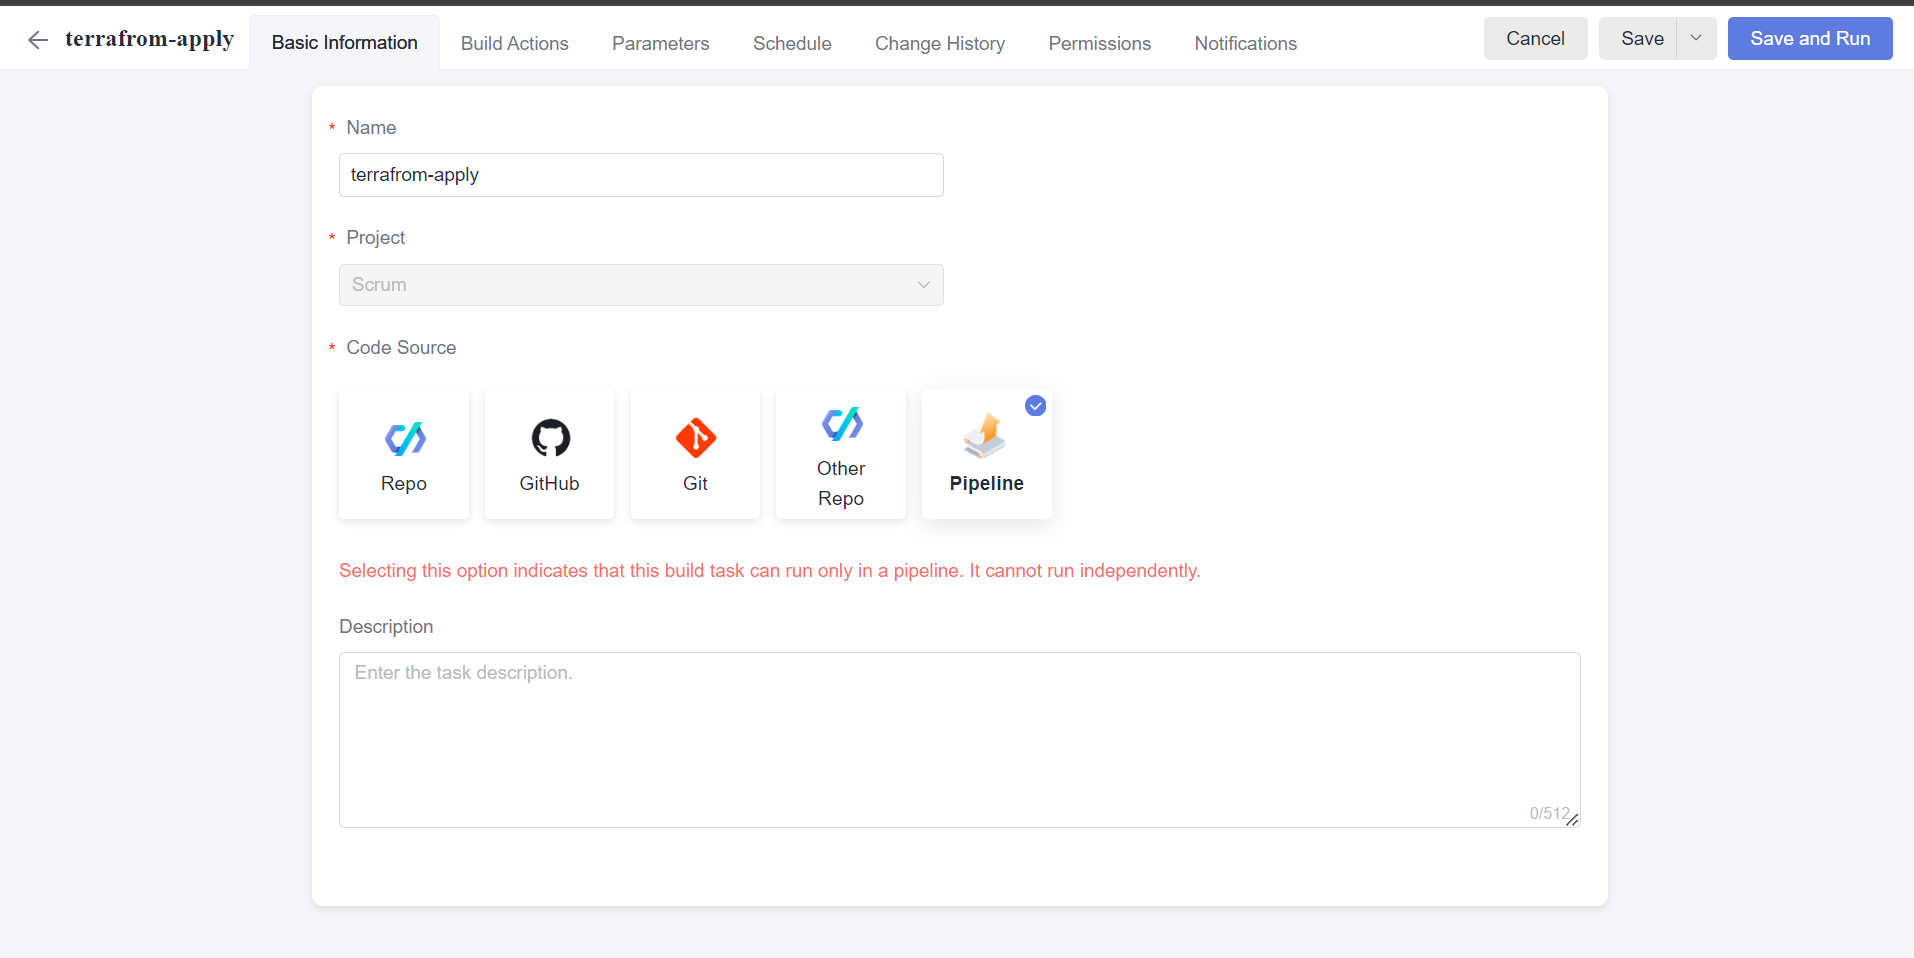
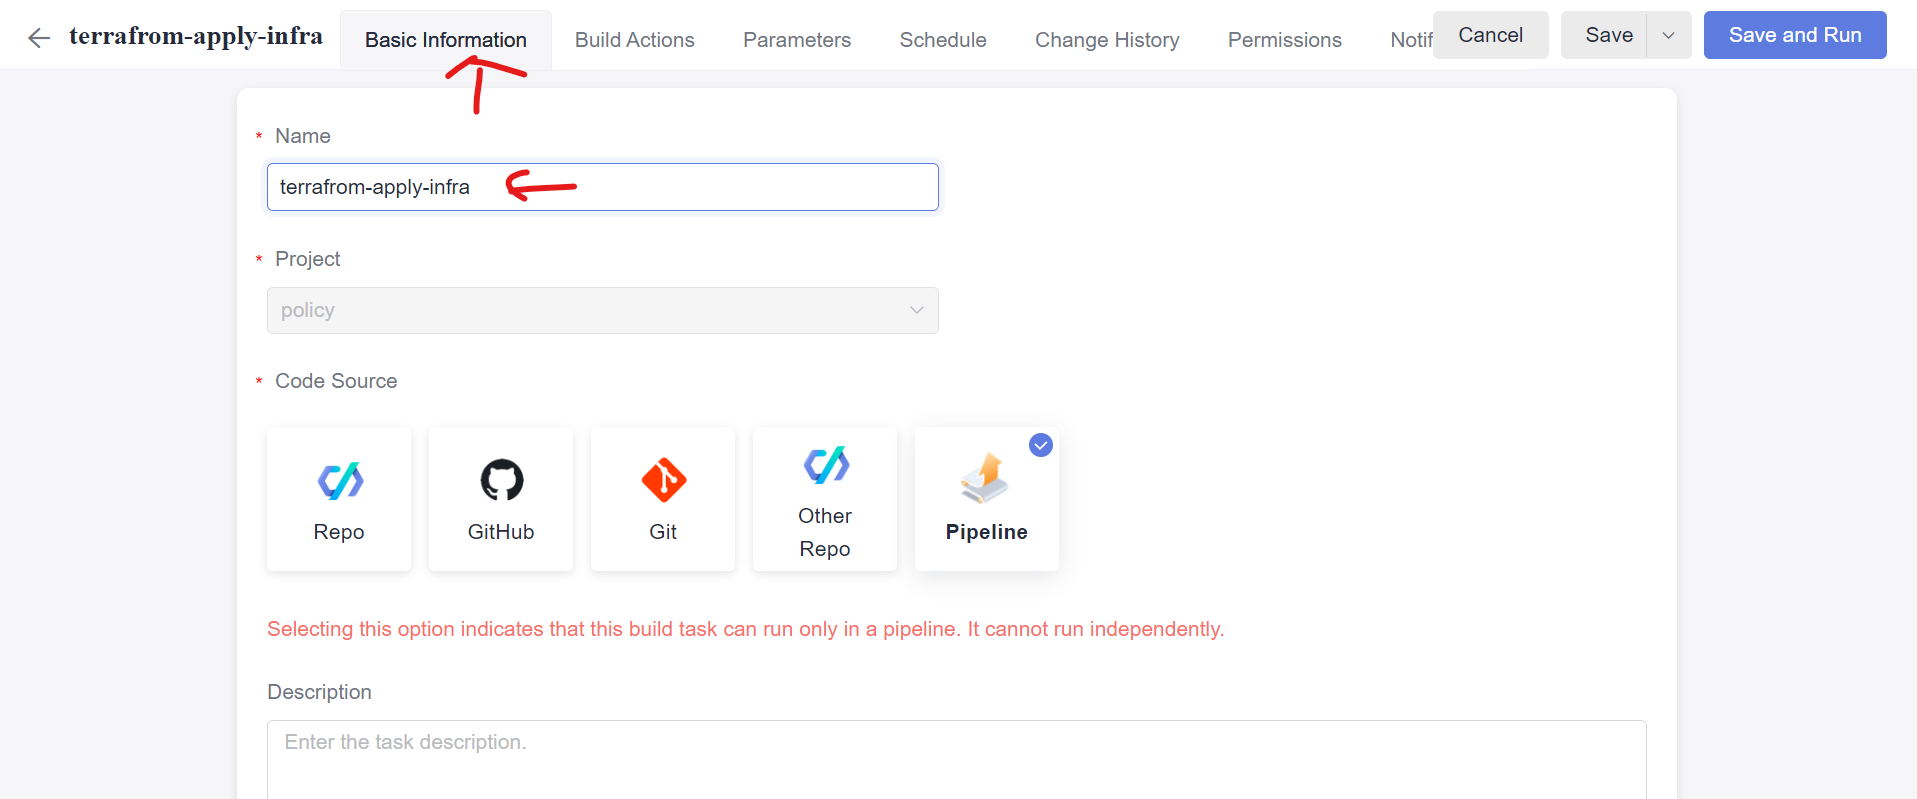
Update

diff --git a/README.md b/README.md
@@ -13,7 +13,7 @@ In this workshop, Huawei Cloud OBS is used as the backend of terraform
 3. On the `Object Storage Service` page, Click `Create Bucket` button on the top right corner of the page
 ![CreateBucket1](./resources/2-Createobsbucket-1.png)
 
-4. On the bucket creation page, only need to provide a uniq bucket name and leave other parameters unchanged
+4. On the bucket creation page, only need to provide a uniq bucket name and leave other parameters unchanged and click `Create Now`
 ![CreateBucket2](./resources/2-Createobsbucket-2.png)
 
 ## Create AK/SK
@@ -40,7 +40,7 @@ In this workshop, Huawei Cloud OBS is used as the backend of terraform
 4. On the Service page, Select `Scrum` template to create a project
 ![CreateProject](./resources/4-Createcodearts-3.png)
 
-5. On the Creation Page, You only need to change the `Name`
+5. On the Creation Page, You only need to change the `Name` and Click `Ok`
 ![CreateProject1](./resources/4-Createcodearts-4.png)
 
 6. On the newly created project page, Select `Code` -> `Repo`
@@ -49,20 +49,20 @@ In this workshop, Huawei Cloud OBS is used as the backend of terraform
 7. On the `Repo` page, Click `New Repository` to create a Repo
 ![CreateRepo](./resources/4-Createcodearts-6.png)
 
-8. Select `Import` as `Repository Type`
+8. Select `Import` as `Repository Type` and Click `Next`
 ![CreateRepo1](./resources/4-Createcodearts-7.png)
 
-9. Select `Import From` as `Git Url` and Use the repository url: ```https://github.com/Huawei-APAC-Professional-Services/policy-as-code-lab.git```
+9. Select `Import From` as `Git Url` and Use the repository url: ```https://github.com/Huawei-APAC-Professional-Services/policy-as-code-lab.git```, other parameters can be left unchanged and Click `Next`
 ![CreateRepo2](./resources/4-Createcodearts-8.png)
 
 10. In the next step. keep the information as it appears and Click `Ok`
 ![CreateRepo3](.//resources/4-Createcodearts-9.png)
 
 ## Update Codes
-1. On the `Code` page, Select `Infrastructure` folder
+1. On the `Code` page, Select `Infrastructure` folder in the newly created repository
 ![UpdateCodes](./resources/5-updatecodes-1.png)
 
-2. Find the `provider.tf` file in the folder and Click `Edit`
+2. Find the `provider.tf` file in the folder and click the file name to open it and find the `Edit` icon on the top right corner of the editor to edit the file.
 ![ChangeProvider](./resources/5-updatecodes-2.png)
 
 ![ChangeProivder](./resources/5-updatecodes-3.png)
@@ -101,11 +101,14 @@ In this workshop, Huawei Cloud OBS is used as the backend of terraform
    * Password: The password provided by Organizer
 ![Endpoints5](./resources/6-pipeline-8.png)
 
+You can find the Repo URL at the Repo page:
+![RepoAddr](./resources/16-repoaddr-1.png)
+
 ## Creating Terraform Validation Job
 1. On the `CodeArts` service page, Select `CICD` -> `Build` -> `Create Task`
 ![CreateTerraformValidation](./resources/7-terraformvalidation-1.png)
 
-2. On the creation page, use `terrafrom-validation` and click `Next` and Select `Shell` template
+2. On the creation page, use `terrafrom-validation` as the name and Select `Pipeline` as the `Code Source`, and click `Next` and Select `Shell` template
 ![CreateTerraformValidation1](./resources/7-terraformvalidation-2.png)
 ![CreateTerraformValidation2](./resources/7-terraformvalidation-3.png)
 
@@ -119,7 +122,7 @@ In this workshop, Huawei Cloud OBS is used as the backend of terraform
    * `Action Name`: ```Terrafrom Validation```
    * `Image Address`: ```swr.ap-southeast-3.myhuaweicloud.com/core/ubuntu:codearts1```
    * `Commands`:
-      ````
+      ```
       export HW_ACCESS_KEY=${HW_ACCESS_KEY}
       export HW_SECRET_KEY=${HW_SECRET_KEY}
       export AWS_ACCESS_KEY_ID=${HW_ACCESS_KEY}
@@ -132,17 +135,18 @@ In this workshop, Huawei Cloud OBS is used as the backend of terraform
 ![CreateTerraformValidation4](./resources/7-terraformvalidation-6.png)
 
 6. Select the `Parameters` tab on the top of the page and Create the following two parameters with empty value and enable the `Runtime Settings`
-   * Name: `HW_ACCESS_KEY`
-   * Name: `HW_SECRET_KEY`
+   * Name: `HW_ACCESS_KEY` Value: `""`
+   * Name: `HW_SECRET_KEY` Value: `""`
 ![CreateTerraformValidation5](./resources/7-terraformvalidation-7.png)
 
 7. Save the task
+![Save1](./resources/16-repoaddr-2.png)
 
 ## Creating Checkov Validation Job
 1. On the `CodeArts` service page, Select `CICD` -> `Build` -> `Create Task`
 ![CreateTerraformValidation](./resources/7-terraformvalidation-1.png)
 
-2. On the creation page, use `checkov-validation` and click `Next` and Select `Shell` template
+2. On the creation page, use `checkov-validation` as `Name` and Select `Pipelin` as `Code Source` and click `Next` and Select `Shell` template
 ![checkov1](./resources/8-checkovvalidation-1.png)
 ![checkov2](./resources/8-checkovvalidation-2.png)
 
@@ -156,7 +160,7 @@ In this workshop, Huawei Cloud OBS is used as the backend of terraform
    * `Action Name`: ```Checkov Validation```
    * `Image Address`: ```swr.ap-southeast-3.myhuaweicloud.com/core/ubuntu:codearts1```
    * `Commands`:
-      ````
+      ```
       checkov -d infrastructure --download-external-modules true --external-checks-git https://github.com/Huawei-APAC-Professional-Services/terraform-policy.git
       checkov -d application --download-external-modules true --external-checks-git https://github.com/Huawei-APAC-Professional-Services/terraform-policy.git
       ```
@@ -211,7 +215,7 @@ In this workshop, Huawei Cloud OBS is used as the backend of terraform
 ![Terraformplaninfra](./resources/9-infraterraformplan-1.png)
 
 2. Select `Basic Information` tab on the top of the page and Change the name to `terrafrom-plan-application`
-![Terraformplaninfra1](./resources/9-infraterraformplan-2.png)
+![Terraformplaninfra1](./resources/9-infraterraformplan-4.png)
 
 3. Select the `Build Actions` tab and the `Terrafrom Validation` job on the left side panel and Change the following the following parameters for the job
    * `Action Name`: ```Terrafrom Plan Application```
@@ -233,13 +237,13 @@ In this workshop, Huawei Cloud OBS is used as the backend of terraform
 ![Terraformplaninfra](./resources/9-infraterraformplan-1.png)
 
 2. Select `Basic Information` tab on the top of the page and Change the name to `terrafrom-apply-application`
-![Terraformapply](./resources/10-infraterraappy-1.png)
+![Terraformapply](./resources/10-infraterraappy-3.png)
 
 3. Select the `Build Actions` tab and the `Terrafrom Validation` job on the left side panel and Change the following the following parameters for the job
    * `Action Name`: ```Terrafrom Apply Application```
    * `Image Address`: ```swr.ap-southeast-3.myhuaweicloud.com/core/ubuntu:codearts1```
    * `Commands`:
-      ````
+      ```
       export HW_ACCESS_KEY=${HW_ACCESS_KEY}
       export HW_SECRET_KEY=${HW_SECRET_KEY}
       export AWS_ACCESS_KEY_ID=${HW_ACCESS_KEY}
@@ -257,7 +261,7 @@ In this workshop, Huawei Cloud OBS is used as the backend of terraform
 2. On the `Pipeline` page, Click `Create Pipeline` button
 ![Pipeline1](./resources/6-pipeline-2.png)
 
-3. Providing the information to create pipeline
+3. Chang the Name to `deployment` and leave other parameters unchanged and Click `Next`
 ![Pipeline2](./resources/6-pipeline-9.png)
 
 4. Select a `Blank Template` for this pipeline
@@ -266,7 +270,8 @@ In this workshop, Huawei Cloud OBS is used as the backend of terraform
 5. After the pipeline is created, Select `Parameter Configurations` on the top of page
 ![Pipeline4](./resources/6-pipeline-11.png)
 
-6. Set the following parameters with the credentials created in [Create AK/SK](#create-aksk)
+6. Set the following parameters with the credentials created in [Create AK/SK](#create-aksk) 
+
 ```HW_ACCESS_KEY``` 
 ```HW_SECRET_KEY```
 
@@ -302,7 +307,7 @@ In this workshop, Huawei Cloud OBS is used as the backend of terraform
 
 ![pipelinevalidation4](./resources/6-pipeline-21.png)
 
-13. Under the `Plan-Infrastructure` stage, add a `terraform plan` job, to configure the job with the following parameters:
+13. Under the `Plan-Infrastructure` stage, add a `Build` job, to configure the job with the following parameters:
    * Name: `infrastructure terraform plan`
    * Select Task: `terraform-plan-infra`
    * Repository: `policy-as-code-lab`
@@ -327,18 +332,18 @@ In this workshop, Huawei Cloud OBS is used as the backend of terraform
 17. On the pipeline configuration page, Click `+Stage` to create a `Deployment-Infra` stage
 ![pipelinevalidation3](./resources/6-pipeline-23.png)
 
-15. Under the `Deployment-Infra` stage, add a `terraform apply` job, to configure the job with the following parameters:
-   * Name: `terraform apply`
+18. Under the `Deployment-Infra` stage, add a `Build` job, to configure the job with the following parameters:
+   * Name: `terraform-apply-infra`
    * Select Task: `terraform-apply-infra`
    * Repository: `policy-as-code-lab`
    * HW_ACCESS_KEY: `${HW_ACCESS_KEY}`
    * HW_SECRET_KEY: `${HW_SECRET_KEY}`
 ![pipelinevalidation3](./resources/6-pipeline-24.png)
 
-16. On the pipeline configuration page, Click `+Stage` to create a `Plan-Application` stage
+19. On the pipeline configuration page, Click `+Stage` to create a `Plan-Application` stage
 ![pipelinevalidation3](./resources/6-pipeline-20.png)
 
-17. Under the `Plan-Application` stage, add a `terraform plan` job, to configure the job with the following parameters:
+20. Under the `Plan-Application` stage, add a `Build` job, to configure the job with the following parameters:
    * Name: `application terraform plan`
    * Select Task: `terraform-plan-application`
    * Repository: `policy-as-code-lab`
@@ -346,22 +351,22 @@ In this workshop, Huawei Cloud OBS is used as the backend of terraform
    * HW_SECRET_KEY: `${HW_SECRET_KEY}`
 ![appplan](./resources/15-appplan-1.png)
 
-18. Click `+` icon on the bottom of `application terraform plan` task to add a serial task
+21. Click `+` icon on the bottom of `application terraform plan` task to add a serial task
 ![AddManualApprovde](./resources/14-manualapprove-4.png)
 
-19. On the job Configuration page, Select `ManualReview` job
+22. On the job Configuration page, Select `ManualReview` job
 ![AddManualApprove1](./resources/14-manualapprove-2.png)
 
-20. Changing the following parameter for `ManualReview` job
+23. Changing the following parameter for `ManualReview` job
    * Name: `ManualReview-Application`
    * Reviewer: Select account admin as reviwer
    * Review Duration: `2 Hours`
 ![AddManualApprove2](./resources/14-manualapprove-5.png)
 
-21. On the pipeline configuration page, Click `+Stage` to create a `Deployment-Application` stage
+24. On the pipeline configuration page, Click `+Stage` to create a `Deployment-Application` stage
 ![pipelinevalidation3](./resources/15-appapply-1.png)
 
-22. Under the `Deployment-Application` stage, add a `terraform apply` job, to configure the job with the following parameters:
+25. Under the `Deployment-Application` stage, add a `Build` job, to configure the job with the following parameters:
    * Name: `terraform apply application`
    * Select Task: `terraform-apply-application`
    * Repository: `policy-as-code-lab`
@@ -369,12 +374,12 @@ In this workshop, Huawei Cloud OBS is used as the backend of terraform
    * HW_SECRET_KEY: `${HW_SECRET_KEY}`
 ![pipelinevalidation3](./resources/15-appapply-2.png)
 
-23. On the pipeline page, Click `Save and Execute` to run the pipeline
+26. On the pipeline page, Click `Save and Execute` to run the pipeline
 ![pipelinevalidation3](./resources/6-pipeline-25.png)
 
 ![pipelinevalidation3](./resources/6-pipeline-26.png)
 
-24. The pipeline is not ready to run due to a serials of policy violation, You job is to fix the pipeline and deploy the application
+27. The pipeline is not ready to run due to a serials of policy violation, You job is to fix the pipeline and deploy the application
 ![PipelineResult](./resources/11-result-1.png)
 
 
